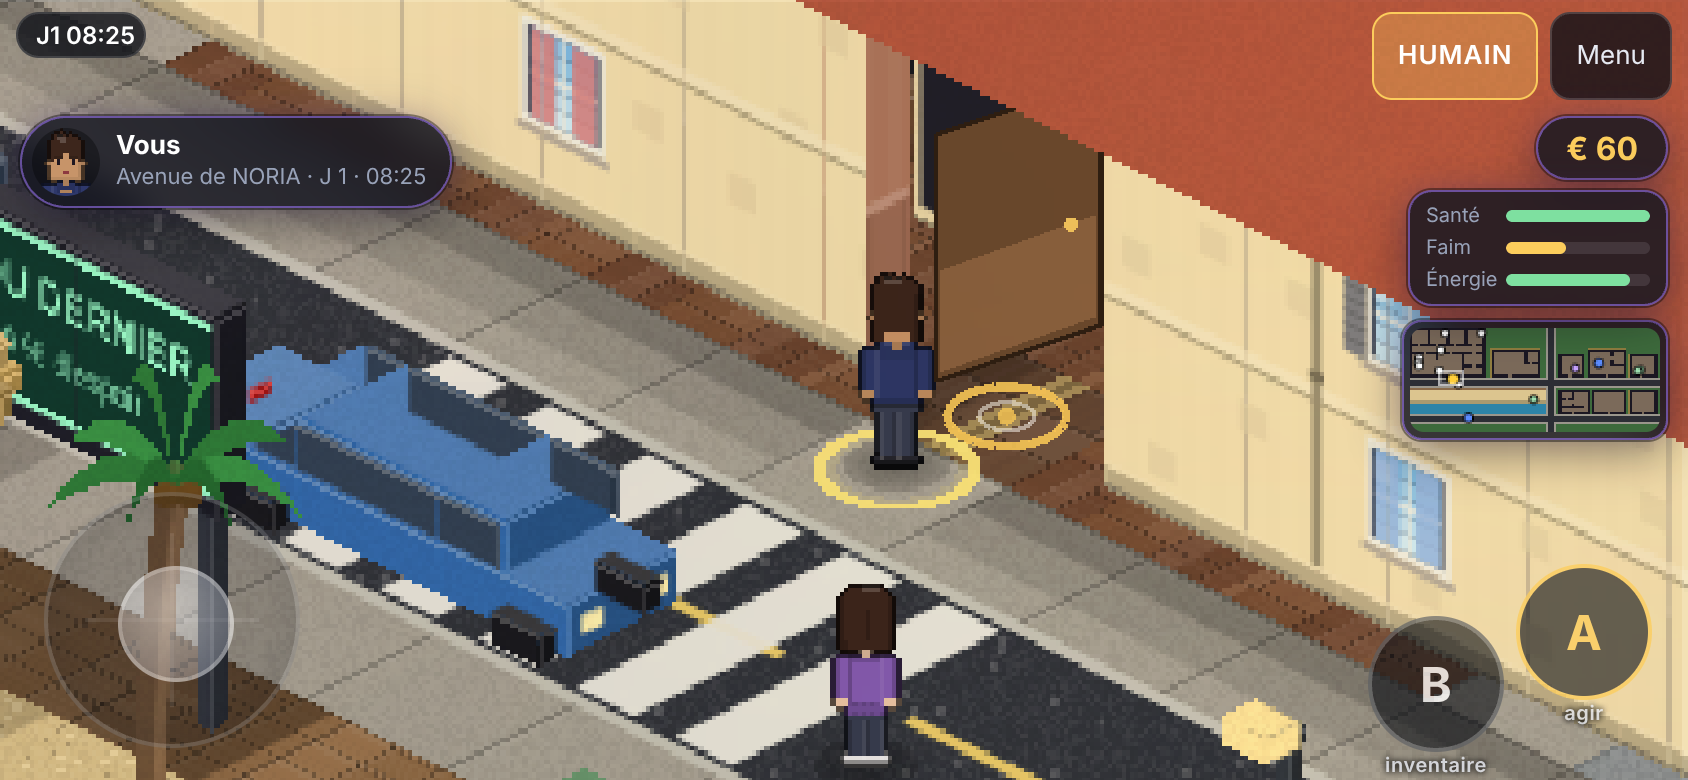
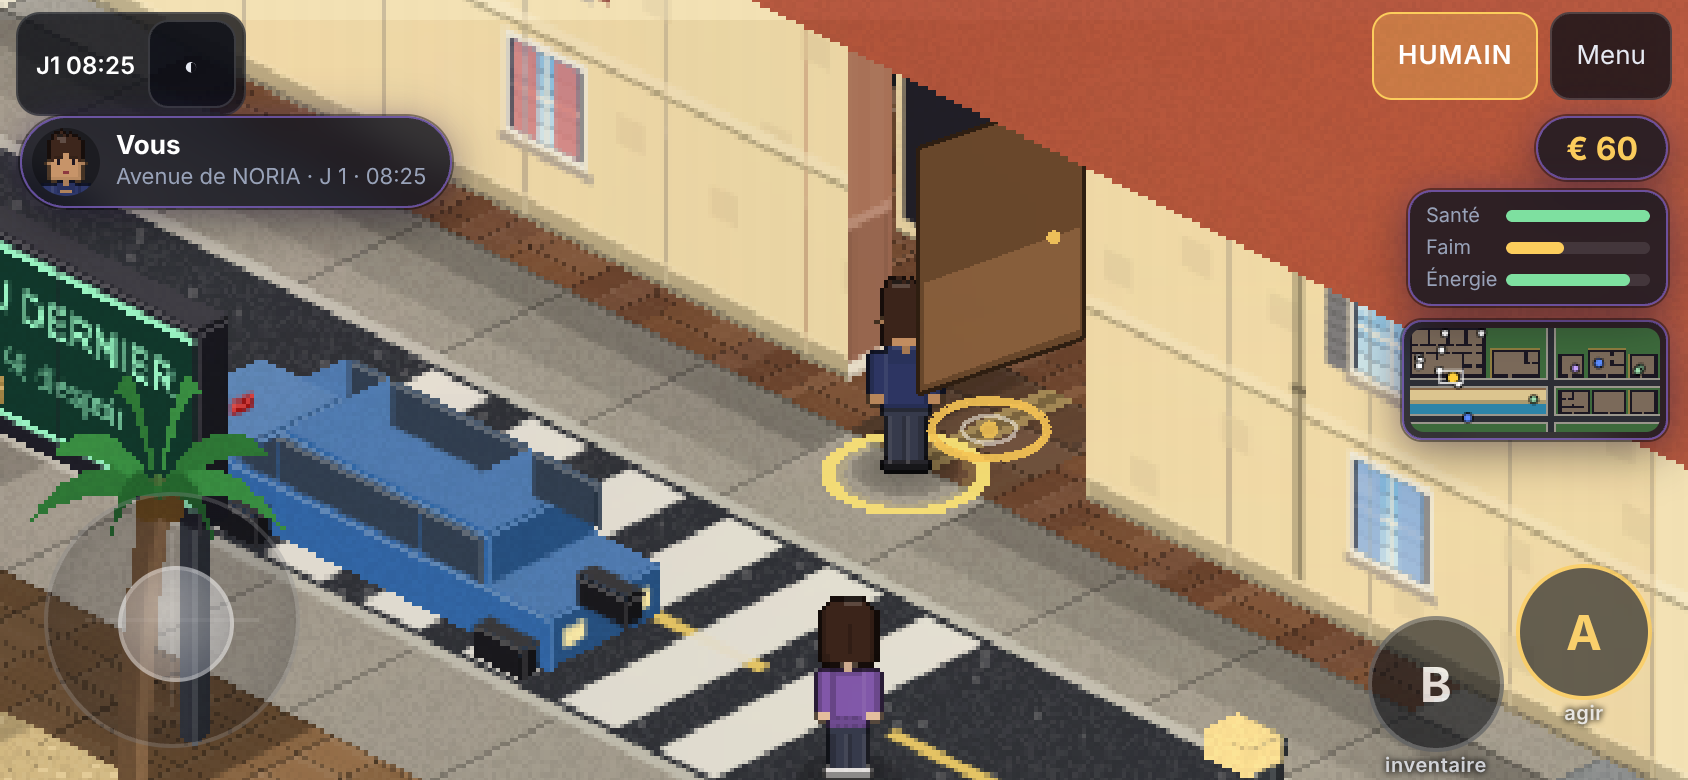
HUD mode Dieu : joystick retiré (caméra tactile), bouton masquer l'interface ; carte du monde de référence
Claude-Session: https://claude.ai/code/session_01TgHL2ERFFt3nTP8cEL1RNQ

diff --git a/src/ui/mobile.ts b/src/ui/mobile.ts
@@ -23,6 +23,8 @@ const CSS = `
 .mob.pill{background:rgba(12,14,22,.78);border:1px solid rgba(255,255,255,.12);border-radius:12px;color:#e6e9f2;font-size:12px}
 .mbtn{font:inherit;color:#e6e9f2;background:rgba(12,14,22,.78);border:1px solid rgba(255,255,255,.16);border-radius:10px;min-width:44px;min-height:44px;padding:0 12px;touch-action:none;transition:none;-webkit-tap-highlight-color:transparent}
 .mbtn:active,.mbtn.on,.mbtn.pressed,#ui.mobile .btn.pressed{transform:scale(.95);background:rgba(250,205,92,.35);border-color:#fccd5c}
+#ui.mobile.god-mode #dpad{display:none!important}
+#ui.hud-hidden #mtr,#ui.hud-hidden #gbar,#ui.hud-hidden #mmap,#ui.hud-hidden #hv2,#ui.hud-hidden #hv2m,#ui.hud-hidden #dpad,#ui.hud-hidden #abtn,#ui.hud-hidden #bbtn,#ui.hud-hidden #qcard,#ui.hud-hidden #decobtn{display:none!important}
 #mtl{left:calc(var(--sl) + 8px);top:calc(var(--st) + 6px);display:flex;gap:6px;align-items:center;padding:3px 4px 3px 9px}
 #mtl b{font-weight:600;color:#fff;white-space:nowrap}
 #mtr{right:calc(var(--sr) + 8px);top:calc(var(--st) + 6px);display:flex;gap:6px}
@@ -78,7 +80,7 @@ export class MobileUi {
     const st = document.createElement('style'); st.textContent = CSS; document.head.appendChild(st);
     const p = g.params.get('safe'); if (p) { const [l, t, r, b] = p.split(',').map(Number); const s = document.documentElement.style; s.setProperty('--safe-l', (l || 0) + 'px'); s.setProperty('--safe-t', (t || 0) + 'px'); s.setProperty('--safe-r', (r || 0) + 'px'); s.setProperty('--safe-b', (b || 0) + 'px'); }
     const root = hud.root; const add = (id: string, cls: string, html = '') => { const d = document.createElement('div'); d.id = id; d.className = cls; d.innerHTML = html; root.appendChild(d); this.el[id] = d; return d; };
-    add('mtl', 'mob pill', '<b id="mclock">J1 07:00</b><button class="mbtn" id="mspeed">1x</button>');
+    add('mtl', 'mob pill', '<b id="mclock">J1 07:00</b><button class="mbtn" id="mspeed">1x</button><button class="mbtn" id="mhudtog" aria-label="Masquer ou afficher interface">◐</button>');
     add('mtr', 'mob', '<button class="mbtn mode" id="mmode">DIEU</button><button class="mbtn" id="mmenu" aria-label="Menu">Menu</button>');
     add('dpad', 'mob', '<div class="jbase"></div><div class="jknob"></div>');
     add('abtn', 'mob', 'A<small id="alab"></small>'); add('bbtn', 'mob', 'B<small id="blab"></small>');
@@ -149,6 +151,7 @@ export class MobileUi {
   private bindTop() {
     document.getElementById('mspeed')!.onclick = () => { this.g.setSpeed((this.g.speedIndex + 1) % SPEEDS_LABEL.length); };
     document.getElementById('mmode')!.onclick = () => this.g.toggleMode();
+    document.getElementById('mhudtog')!.onclick = () => { if (Nav.tooSoon('hudtog')) return; const ui = this.hud.root; const hide = !ui.classList.contains('hud-hidden'); ui.classList.toggle('hud-hidden', hide); document.getElementById('mhudtog')!.textContent = hide ? '◑' : '◐'; this.g.hud.toast(hide ? 'Interface masquée — touchez ◑ pour la rétablir' : 'Interface affichée'); };
     document.getElementById('mmenu')!.onclick = () => { if (Nav.tooSoon('mmenu')) return; this.sheet ? Nav.closeTop() : this.openMenu(); };
   }
   // ---- feuilles temporaires
@@ -206,7 +209,7 @@ export class MobileUi {
     const human = this.g.mode === 'human'; const mm = document.getElementById('mmode')!; mm.textContent = human ? 'HUMAIN' : 'DIEU'; mm.classList.toggle('human', human);
     let alab = human ? 'agir' : 'choisir'; if (human && !this.g.hud.dialogueOpen()) { const n = Act.nearby(this.g.world, this.g.world.avatar)[0]; if (n) alab = n.kind === 'npc' ? 'parler' : 'utiliser'; }
     this.el.abtn.classList.toggle('rdy', human && alab !== 'agir'); document.getElementById('alab')!.textContent = alab; document.getElementById('blab')!.textContent = human ? 'inventaire' : 'pouvoirs';
-    document.getElementById('mspeed')!.textContent = SPEEDS_LABEL[this.g.speedIndex];
+    document.getElementById('mspeed')!.textContent = SPEEDS_LABEL[this.g.speedIndex]; this.hud.root.classList.toggle('god-mode', !human);
   }
   update(dt: number) {
     if (!this.active) return; this.acc += dt; if (this.acc < 0.25) return; this.acc = 0; const w = this.g.world;

diff --git a/docs/NORIA_WORLD_MAP.md b/docs/NORIA_WORLD_MAP.md
@@ -1,0 +1,33 @@
+# Carte du monde de NORIA — référence (planche fournie par le créateur)
+
+Image : `docs/ref/NORIA_world_map_reference.webp`.
+
+## Ce que montre la planche
+Une métropole côtière « Los Angeles version pixel » : baie, jetée avec grande roue, plage animée, collines avec le panneau NORIA, gratte-ciel de Downtown, fleuve et ponts, port industriel avec grues et conteneurs, aéroport, stade, voies rapides.
+
+### Quartiers affichés (10)
+| Quartier (planche) | Identité |
+|---|---|
+| NORIA BEACH | plages, fête, sports, détente (jetée, grande roue) |
+| DOWNTOWN | pouvoir, finances, médias (centre d'affaires) |
+| WESTSIDE | art, culture, jeunesse (résidentiel et créatif) |
+| MIDTOWN | commerces, restaurants, vie nocturne |
+| SOUTH CENTRAL | gangs, entraide, contrebande |
+| EASTWOOD | quartier populaire, plein de vie (authentique) |
+| HILLSIDE | calme, nature, familles (résidentiel) |
+| BEL-AIR | luxe, célébrités, villas |
+| LE PORT | industrie, trafics, opportunités |
+| AÉROPORT | voyages et événements |
+
+### Habitants emblématiques (chapitre 1)
+Lena Carter (scientifique), Marcus « Flex » Rivera (entrepreneur milliardaire), Capitaine Reyes (police), Jayden « Ghost » (chef de gang, South Central), Maya Torres (artiste), Elliot Park (hacker), Père Elijah (leader spirituel), Roxanne Bell (propriétaire de club), Tommy Blake (livreur), + un habitant clé inconnu (« ??? »).
+
+## Écart avec la géographie déjà en place — à trancher par le créateur
+La géographie « officielle » du jeu (`src/sim/founders.ts`, consignes précédentes) comporte **7 quartiers** : Noria Beach, Downtown Noria, Mirage Strip, Golden Hills, South Noria, Blackwater Docks, Eden Campus. Cette planche en montre **10** avec d'autres noms (Westside, Midtown, South Central, Eastwood, Hillside, Bel-Air, Le Port, Aéroport).
+
+Rapprochements probables : Mirage Strip ≈ Midtown (vie nocturne) ; Golden Hills ≈ Bel-Air/Hillside (villas, collines) ; South Noria ≈ South Central/Eastwood (populaire) ; Blackwater Docks ≈ Le Port ; Eden Campus ≈ Westside (jeunesse) ; Aéroport = nouveau.
+
+**Rien n'a été renommé.** Les données restent celles des 7 quartiers jusqu'à décision. Les 10 habitants emblématiques de la planche correspondent aux 10 fondateurs déjà enregistrés.
+
+## Ce que le jeu fait aujourd'hui de cette vision (état réel)
+Jouable : une portion de Noria Beach (plage animée, promenade, bar tiki), le centre-ville est (épicerie, commissariat, café, immeubles) et la maison/bar. Aucun des autres quartiers, ni la jetée avec grande roue, le port, l'aéroport, le fleuve ou les collines n'existe encore.
